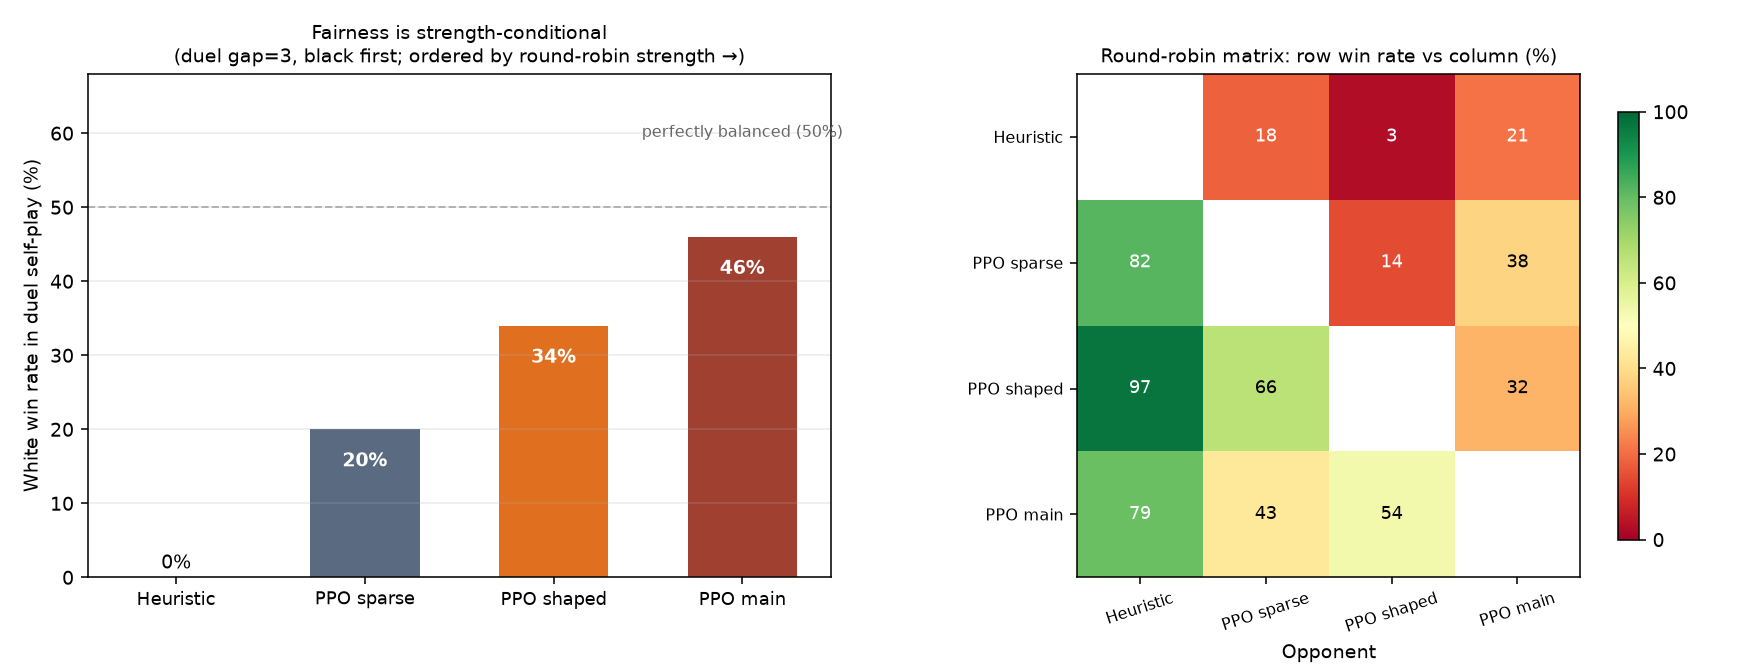
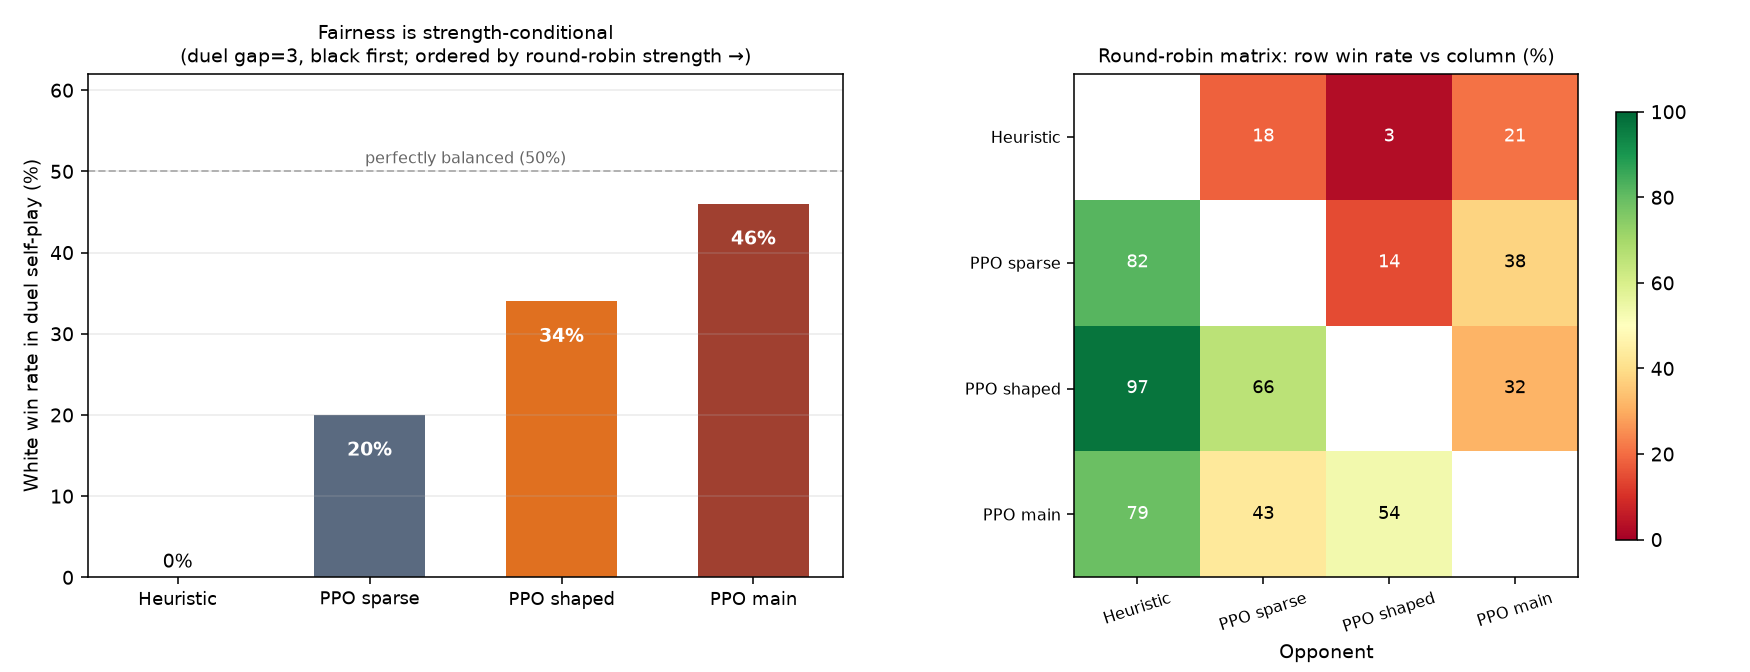
Fig 4: pull balance annotation inside axes, hug the 50% dashed line

diff --git a/python/fig_strength_fairness.py b/python/fig_strength_fairness.py
@@ -36,12 +36,12 @@ for i, (wr, n) in enumerate(zip(WHITE_WR, N_GAMES)):
     else:
         ax1.text(i, wr + 1.2, f'{wr:.0f}%', ha='center', fontsize=10)
 ax1.axhline(50, color='#888', ls='--', lw=1, alpha=0.6)
-ax1.text(3, 59.5, 'perfectly balanced (50%)', fontsize=8, color='#666', ha='center')
+ax1.text(1.5, 51.0, 'perfectly balanced (50%)', fontsize=8, color='#666', ha='center')
 ax1.set_xticks(x)
 ax1.set_xticklabels(NAMES, fontsize=9)
 ax1.set_ylabel('White win rate in duel self-play (%)')
 ax1.set_title('Fairness is strength-conditional\n(duel gap=3, black first; ordered by round-robin strength →)', fontsize=10)
-ax1.set_ylim(0, 68)
+ax1.set_ylim(0, 62)
 ax1.grid(axis='y', alpha=0.25)
 
 # 右：对局矩阵热图
